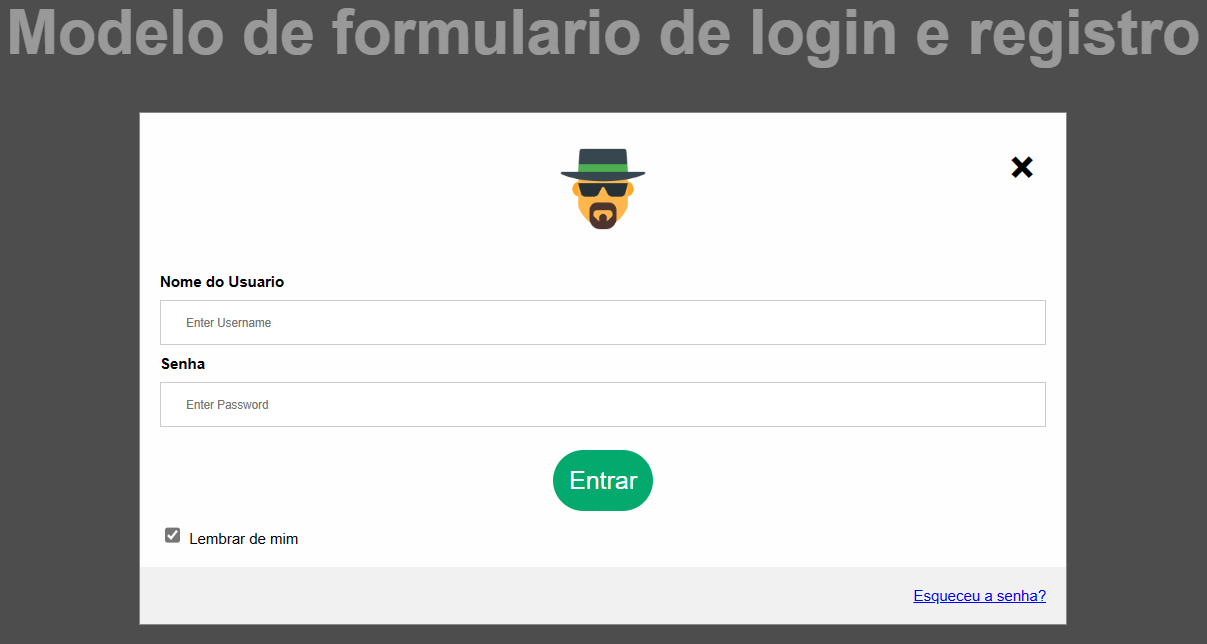
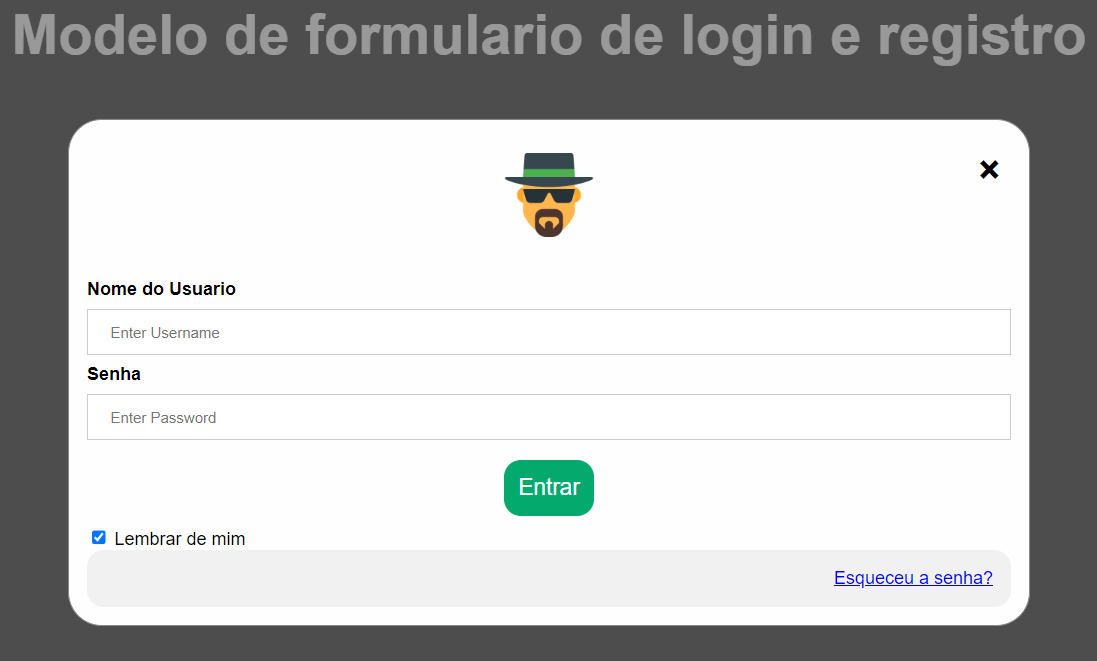
fix bugs

diff --git a/index.html b/index.html
@@ -42,15 +42,12 @@
                         <label> 
                             <input type="checkbox" checked="checked" name="lembrarDeMim"> Lembrar de mim
                         </label>
-
-                    </div>
-
-                    <div class="container container-alin-center">
-                        <span class="fgtSenha"> 
-                            <a href="#"> Esqueceu a senha? </a>
-                        </span>
-                    </div>
-                        
+                        <div class="container container-alin-center">
+                            <span class="fgtSenha"> 
+                                <a href="#"> Esqueceu a senha? </a>
+                            </span>
+                        </div>
+                    </div>   
                 </div>
             </form>
         </div>

diff --git a/styles/mainStyle.css b/styles/mainStyle.css
@@ -35,7 +35,7 @@ button {
     text-align: center;
     font-size: 20px;
     padding: 13px;
-    border-radius: 100px;
+    border-radius: 15px;
     transition: all .2s;
     margin: 10px;
 }
@@ -102,7 +102,8 @@ span.fgtSenha {
     display: flex;
     align-items: center;
     justify-content: end;
-    background-color: #f1f1f1
+    background-color: #f1f1f1;
+    border-radius: 15px;
 }
 
 .modal-content {
@@ -110,6 +111,7 @@ span.fgtSenha {
     margin: 5% auto 15% auto;
     border: 1px solid #888;
     width: 50%;
+    border-radius: 30px;
 }
 
 .btnFechar {
